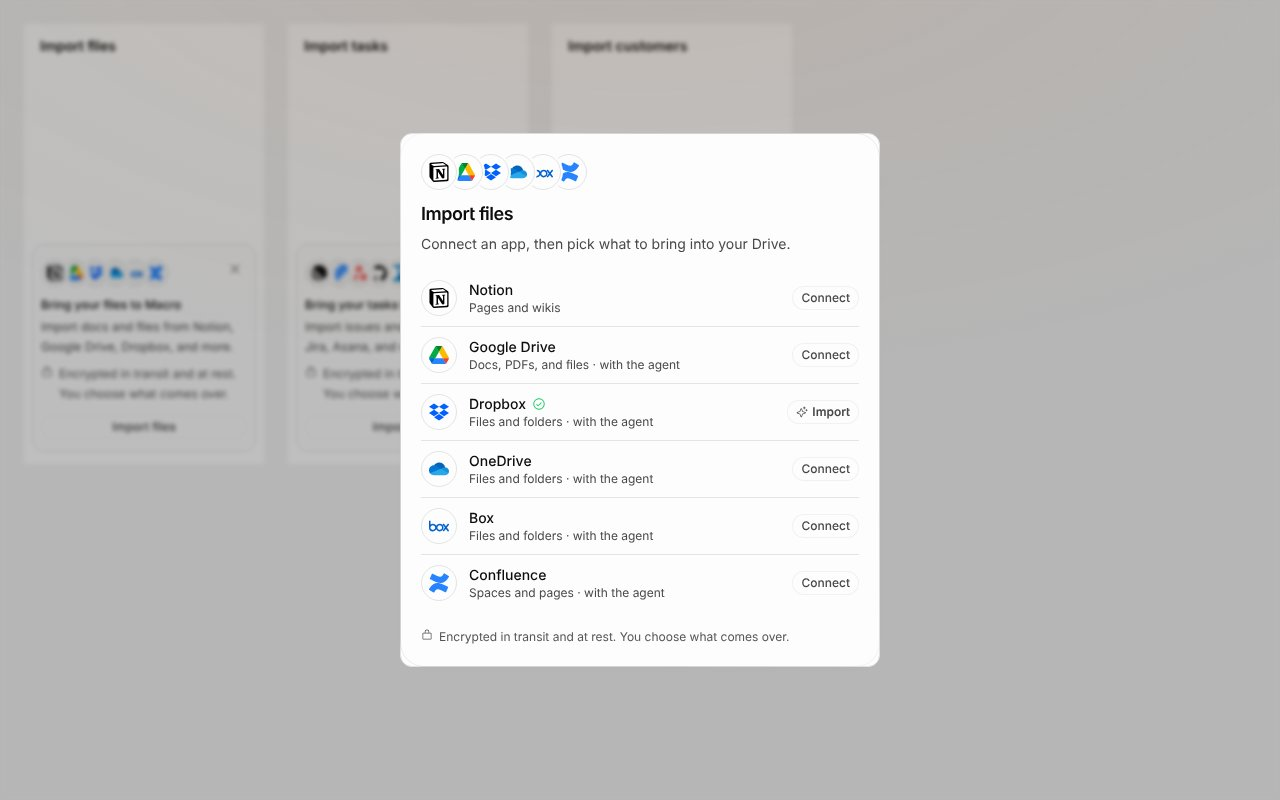
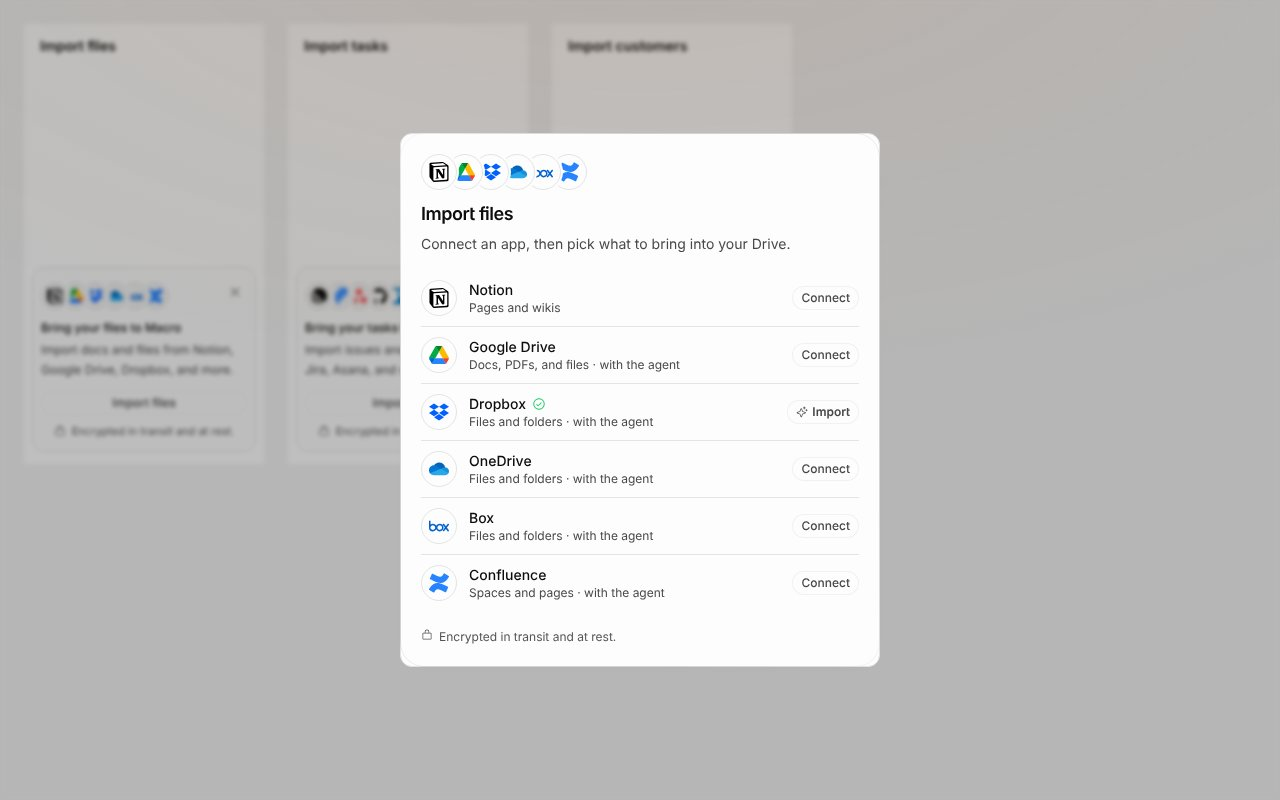
fix(import): move card security note below the button
Shorten it to the encryption claim, shrink it, and center it on all three sidebar cards.

Changed region(s): [[0.0312, 0.3125, 0.1875, 0.5625], [0.2188, 0.3125, 0.3125, 0.5625], [0.5, 0.7812, 0.5938, 0.8125]]

diff --git a/apps/web/src/features/connector-import/core/catalog.ts b/apps/web/src/features/connector-import/core/catalog.ts
@@ -7,13 +7,13 @@ import IconDropbox from '@icon/import/dropbox.svg';
 import IconGoogleDrive from '@icon/import/google-drive.svg';
 import IconHubSpot from '@icon/import/hubspot.svg';
 import IconJira from '@icon/import/jira.svg';
-import IconLinear from '@icon/mcp-linear.svg';
 import IconMonday from '@icon/import/monday.svg';
 import IconNotion from '@icon/import/notion.svg';
 import IconOneDrive from '@icon/import/onedrive.svg';
 import IconSalesforce from '@icon/import/salesforce.svg';
 import IconTrello from '@icon/import/trello.svg';
 import IconGithub from '@icon/mcp-github.svg';
+import IconLinear from '@icon/mcp-linear.svg';
 import type {
   ImportCategory,
   ImportCategoryConfig,

diff --git a/apps/web/src/features/connector-import/components/import-promo-card.tsx b/apps/web/src/features/connector-import/components/import-promo-card.tsx
@@ -32,7 +32,6 @@ export function ImportPromoCard(props: {
       <p class="mt-1 text-xs leading-relaxed text-ink-muted">
         {props.config.pitch}
       </p>
-      <SecurityNote class="mt-2" />
       <Button
         variant="outline"
         size="sm"
@@ -41,6 +40,7 @@ export function ImportPromoCard(props: {
       >
         {props.config.action}
       </Button>
+      <SecurityNote class="mt-2 items-center justify-center text-[11px] leading-4 [&>svg]:mt-0" />
     </section>
   );
 }

diff --git a/apps/web/src/features/connector-import/core/providers.ts b/apps/web/src/features/connector-import/core/providers.ts
@@ -40,5 +40,4 @@ export type ImportCategoryConfig = ImportCategoryCopy & {
 };
 
 /** Shown on every card and dialog; grounded in Macro's security page. */
-export const IMPORT_SECURITY_NOTE =
-  'Encrypted in transit and at rest. You choose what comes over.';
+export const IMPORT_SECURITY_NOTE = 'Encrypted in transit and at rest.';

diff --git a/docs/AGENT_GUIDE/surfaces.md b/docs/AGENT_GUIDE/surfaces.md
@@ -2211,9 +2211,9 @@ afterwards in **Settings → Billing**, where Guest users can buy Premium or Max
 
 With `enable-connector-import` on (on in dev) and the Pipedream connector stack
 enabled, the Drive, Tasks, and Customers sidebars end with an import card:
-overlapping provider logos, a short pitch, an encryption note, and **Import
-files**, **Import tasks**, or **Import customers**. Customers shows it only to
-team members. **Dismiss import files** (or tasks, customers) hides that card
+overlapping provider logos, a short pitch, **Import files**, **Import tasks**,
+or **Import customers**, and a small centered encryption note below the button.
+Customers shows it only to team members. **Dismiss import files** (or tasks, customers) hides that card
 for the user in this browser; a server-confirmed native import also hides it.
 
 The button opens a dialog listing that category's apps (Files: Notion, Google
